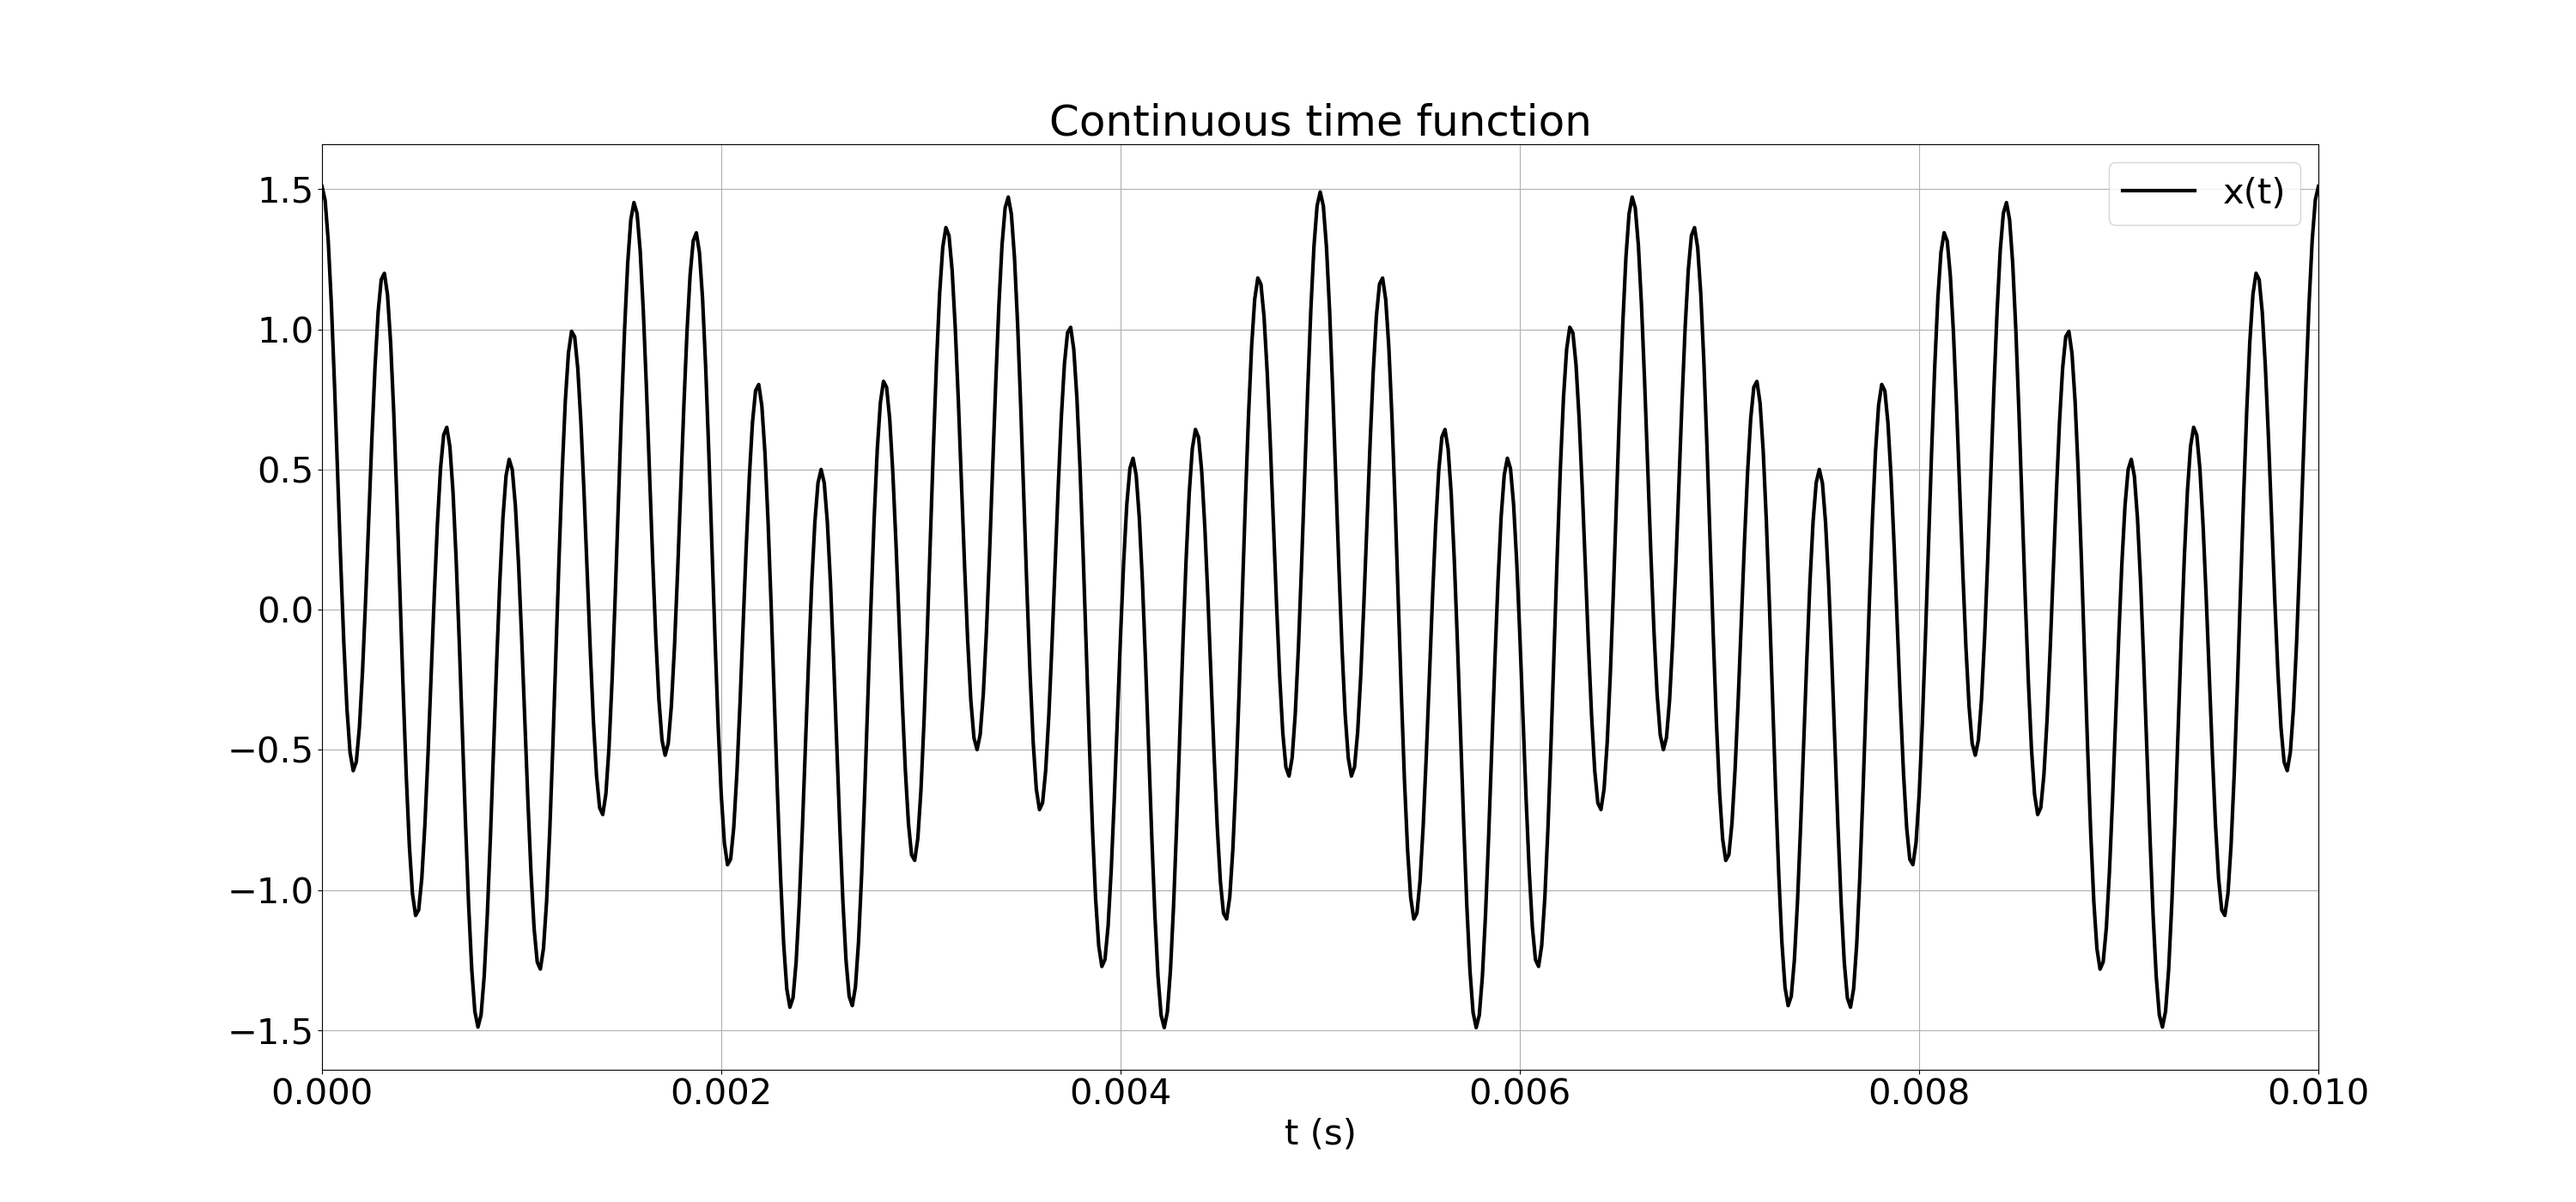
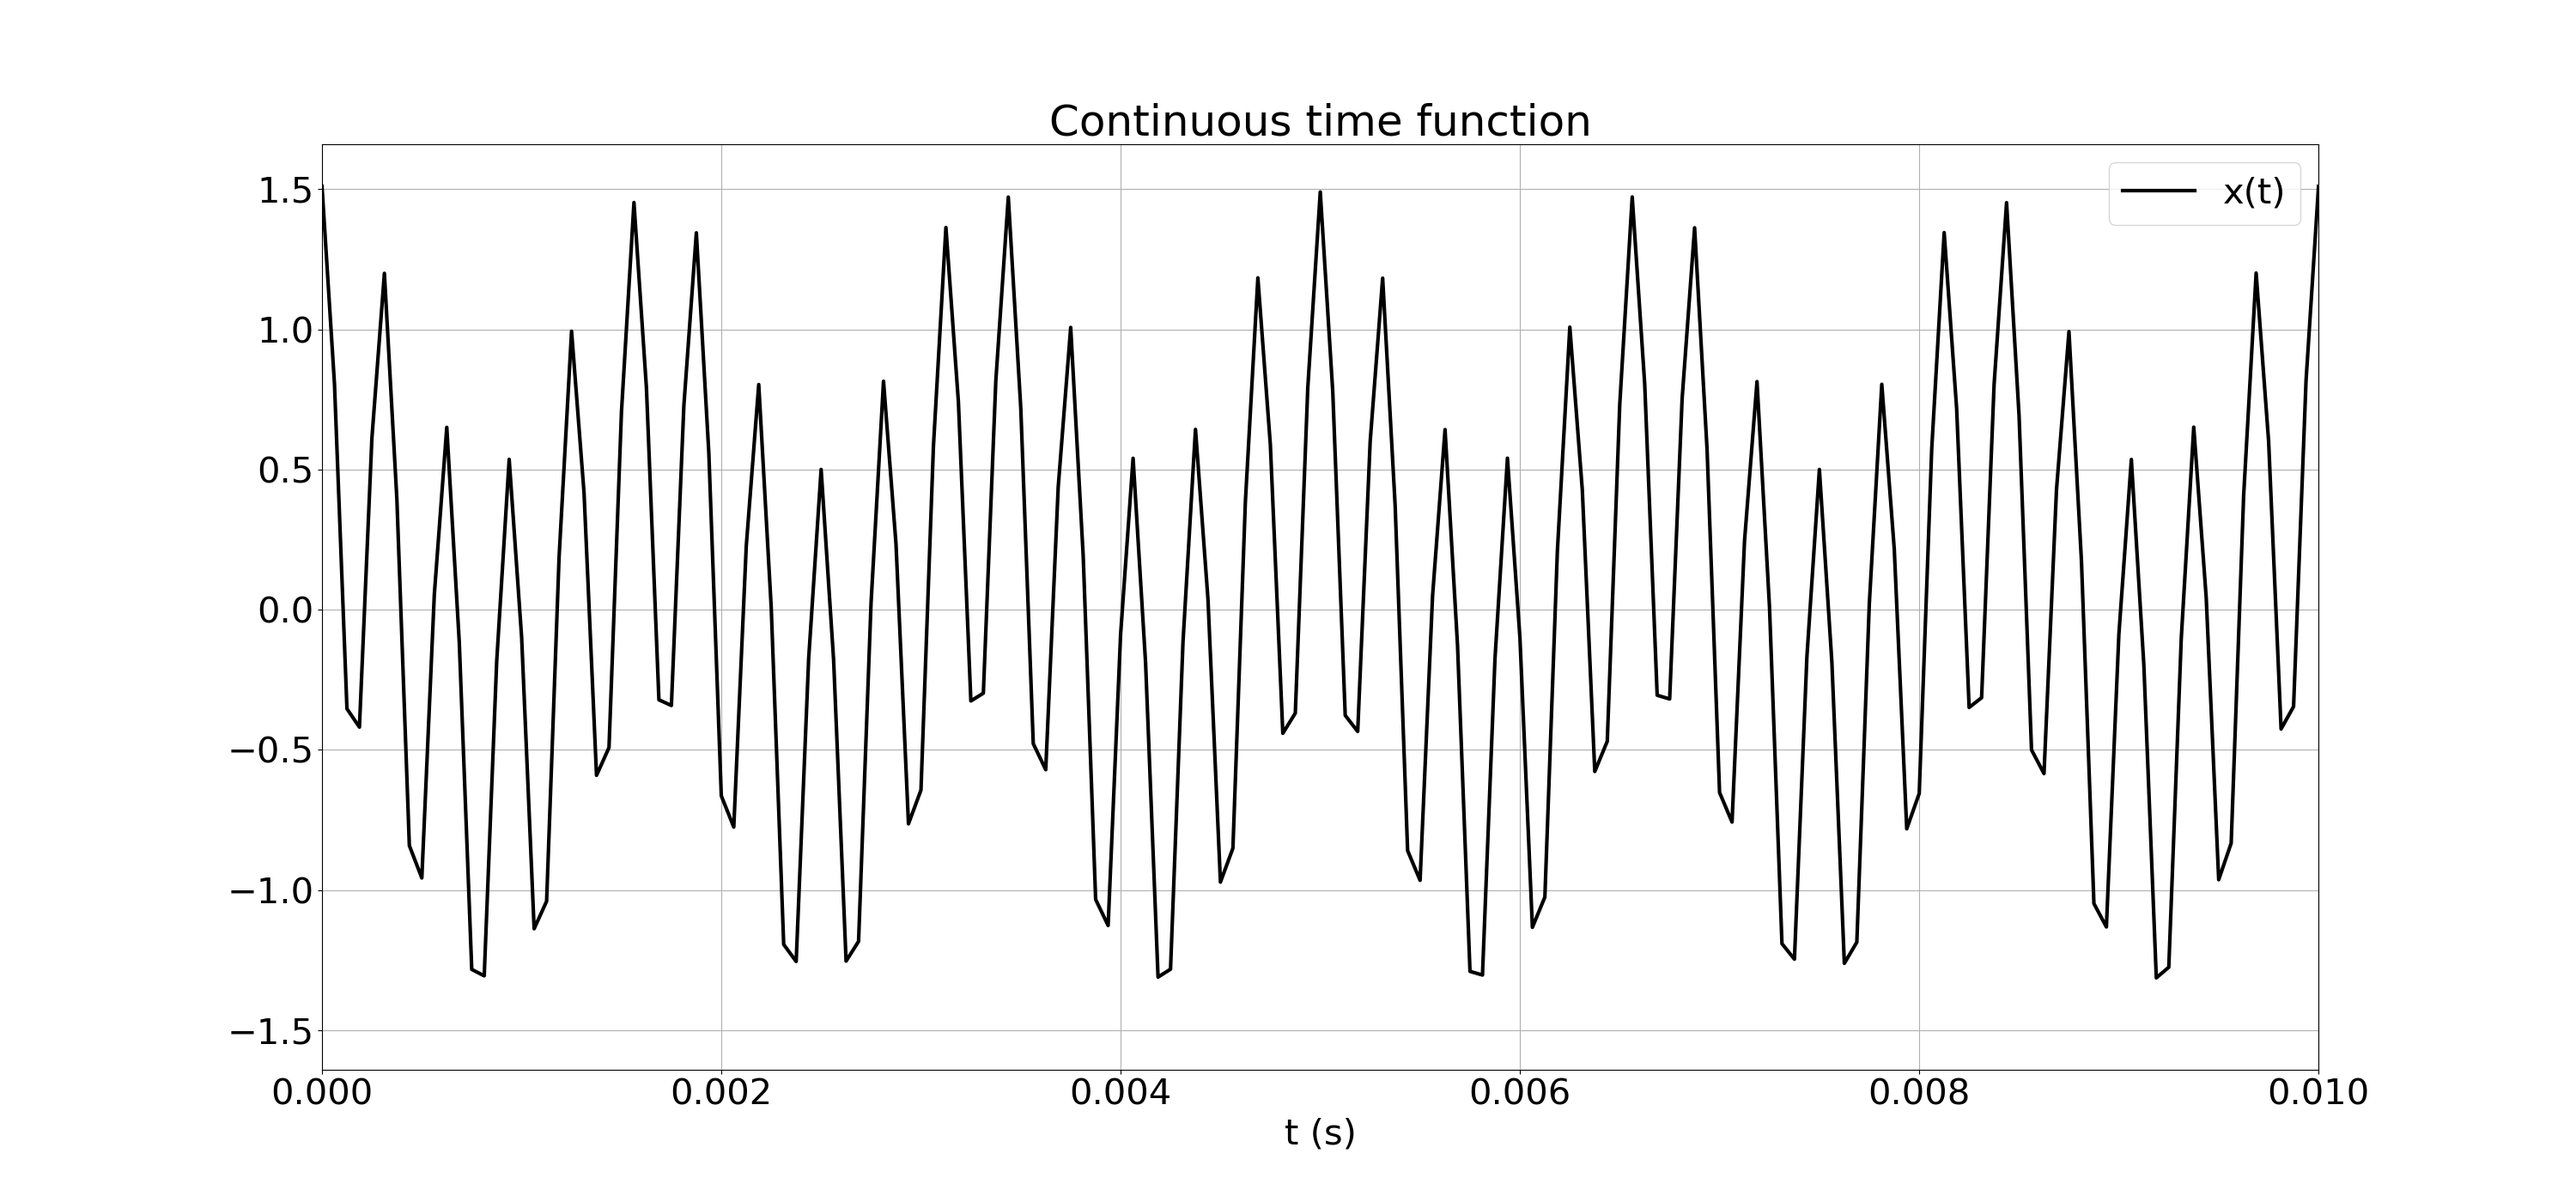
commit para a questão 2

diff --git a/python/amostragem.py b/python/amostragem.py
@@ -14,7 +14,7 @@ t = sp.symbols('t')
 f = sp.cos(2*np.pi*3200*t) + 0.5*sp.cos(2*np.pi*600*t) + 0.01*sp.cos(2*np.pi*300*t)
 x = sp.lambdify(t,f,'numpy')
 #%% Continuous
-L = 1
+L = 4
 M = 1
 Fs = int(6400/L)
 #Fs = int(6400*M)
